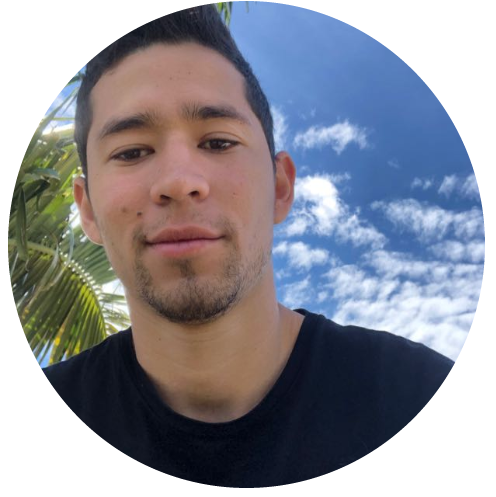
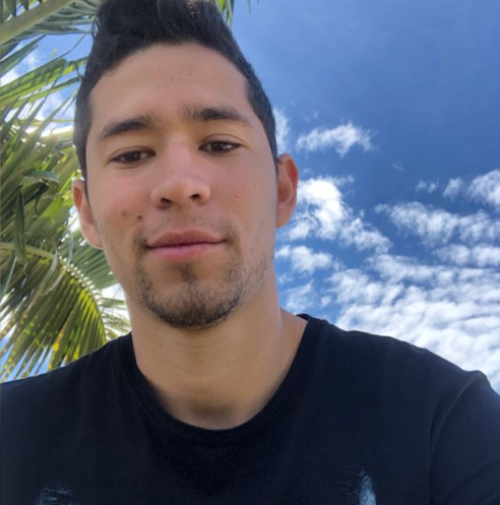
cambios footer pagina quienes somos

Changed region(s): [[0.0, 0.0, 1.0, 1.0], [0.877, 0.3622, 0.9073, 0.3924]]

diff --git a/src/components/section-quienes somos/ContainerFooter.js b/src/components/section-quienes somos/ContainerFooter.js
@@ -7,17 +7,17 @@ import { faGithub, faLinkedin } from '@fortawesome/free-brands-svg-icons'
 
 function ContainerFooter() {
   return (
-    <div className="main-footer d-flex flex-row">
+    <div className="container-fluid main-footer d-flex flex-row">
       <div className="d-flex flex-column align-items-center">
         <div className="d-flex flex-row w-100">
          
-          <div className="d-flex flex-column align-items-center w-100 ">            
-            <img src={Logo} alt="imagen-logo" className="w-75 mt-5 h-75"/>
+          <div className="d-flex flex-column align-items-center w-100 p-3 ">            
+            <img src={Logo} alt="imagen-logo" className="img-fluid w-75 mt-5 h-75 p-2"/>
           </div>
        
-          <div className="d-flex flex-column align-items-center w-100">
+          <div className="d-flex flex-column align-items-center w-100 p-3">
             <h5>Michael Gómez</h5>
-            <img src={Michael} alt="imagen-michael" className="w-50 h-50 mt-2"/>
+            <img src={Michael} alt="imagen-michael" className="img-fluid w-50 p-2 h-50 rounded-circle"/>
             <p>Lorem ipsum dolor sit amet, consectetur adipisicing elit. Officiis iusto itaque numquam unde natus voluptate commodi, repudiandae a, optio eos nemo adipisci totam consectetur! Corporis?</p>
             <div className="d-flex flex-row">
             <a className=" mb-1 p-3" href="/" target="_blank" rel="noopener noreferrer" >
@@ -27,9 +27,9 @@ function ContainerFooter() {
             </div>    
           </div>
          
-          <div className="d-flex flex-column align-items-center w-100">
+          <div className="d-flex flex-column align-items-center w-100 p-3">
           <h5>Iván Darío Mejía</h5>
-            <img src={Ivan} alt="imagen-ivan" className="w-50  h-50 mt-2" />
+            <img src={Ivan} alt="imagen-ivan" className="img-fluid w-50 p-2 h-50 rounded-circle" />
             <p>Lorem ipsum dolor sit amet, consectetur adipisicing elit. Officiis iusto itaque numquam unde natus voluptate commodi, repudiandae a, optio eos nemo adipisci totam consectetur! Corporis?</p>
             <div className="d-flex flex-row">
             <a className=" mb-3 p-3" href="https://github.com/Ivancho427" target="_blank" rel="noopener noreferrer" >
@@ -42,7 +42,7 @@ function ContainerFooter() {
 
         <div className="row">
           <hr />
-          <p className="col-sm text-center mt-2 pt-3">            
+          <p className=" container-fluid col-sm text-center mt-2 pt-3">            
             &copy;{2020} DE-SA (Deporte y Salud) Salud en línea | Derechos reservados | 
             Terminos y Condiciones | Privacidad
           </p>
